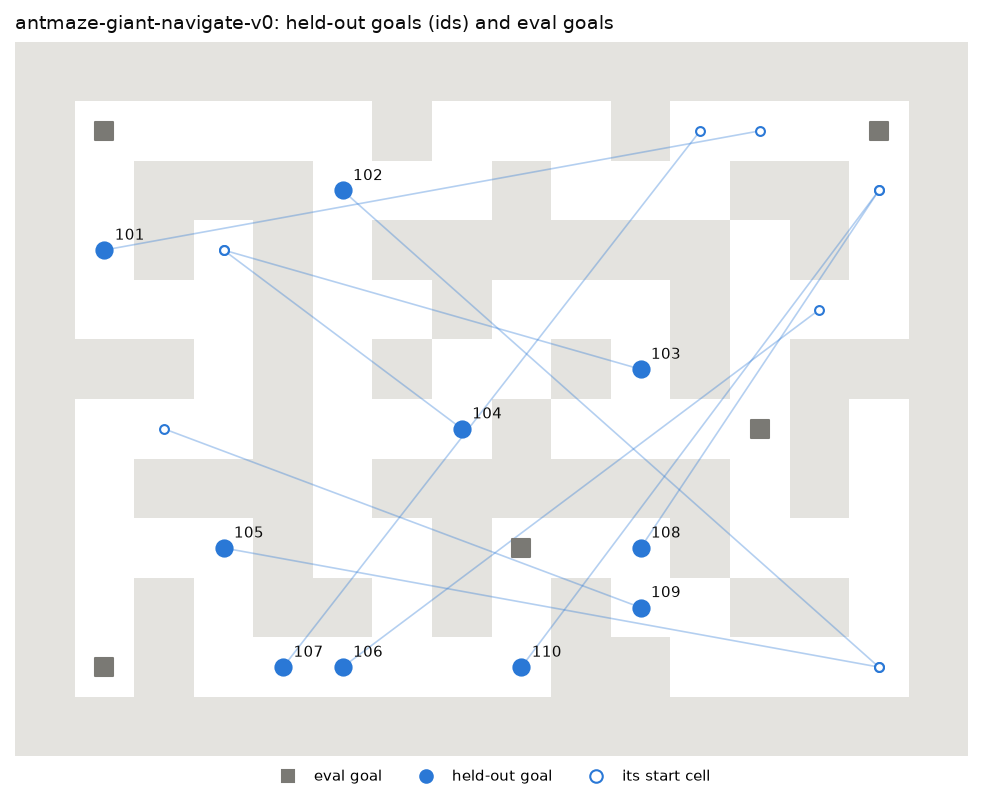
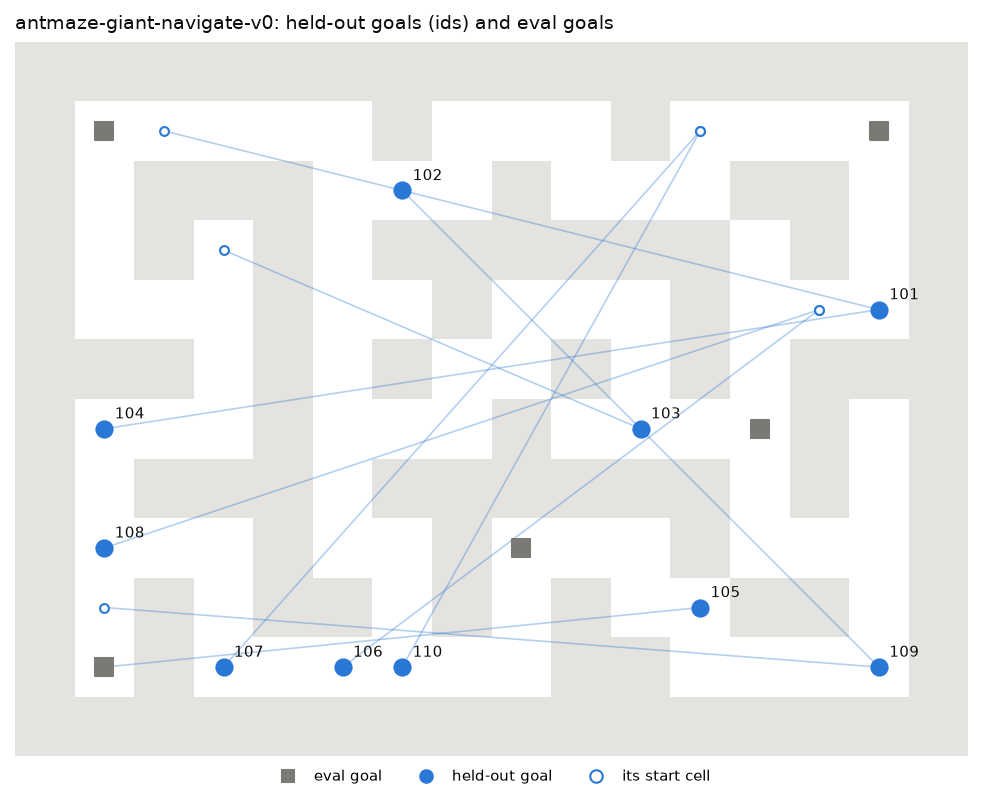
Require 50 dataset states within the radius of each held-out goal; regenerate the goal files

diff --git a/fbplan/evaluate.py b/fbplan/evaluate.py
@@ -127,17 +127,30 @@ class HeldoutGoal:
 
 
 def select_heldout_goals(
-    env: gym.Env, count: int = 10, min_cells: int = 2, seed: int = 0
+    env: gym.Env,
+    dataset_xy: np.ndarray,
+    count: int = 10,
+    min_cells: int = 2,
+    min_states: int = 50,
+    seed: int = 0,
 ) -> list[HeldoutGoal]:
     """Goals far from the 5 eval goals, with start cells as far from them as the eval tasks'.
 
     A start cell of a goal is a free cell whose distance to the goal (maze moves between
     4-connected cells) lies in the range of the eval tasks' start-to-goal distances. Goal cells:
-    `count` free cells, drawn without replacement (seeded) from those at least `min_cells` moves
-    from every eval goal that have a start cell. Start cell of each goal: a seeded draw. The goal
-    is the cell centre, as in OGBench's own tasks, and success uses OGBench's goal radius.
+    `count` free cells, drawn without replacement (seeded) from those that are at least
+    `min_cells` moves from every eval goal, have a start cell, and have at least `min_states`
+    of `dataset_xy` within the goal radius. dataset_xy: xy of the states that make z (the
+    validation split, see goal_latent); few states give a noisy z. Start cell of each goal: a
+    seeded draw. The goal is the cell centre, as in OGBench's own tasks, and success uses
+    OGBench's goal radius.
     """
     maze, infos = MazeGeometry.from_env(env), env.unwrapped.task_infos
+    radius = env.unwrapped._goal_tol
+
+    def states_near(cell: Cell) -> int:
+        centre = np.asarray(env.unwrapped.ij_to_xy(cell))
+        return int((np.linalg.norm(dataset_xy - centre, axis=1) <= radius).sum())
     to_eval_goals = [maze.bfs_steps(tuple(info["goal_ij"])) for info in infos]
     lengths = [
         steps[tuple(info["init_ij"])] for steps, info in zip(to_eval_goals, infos, strict=True)
@@ -149,7 +162,11 @@ def select_heldout_goals(
         return [c for c in free if min(lengths) <= steps[c] <= max(lengths)]
 
     candidates = [
-        c for c in free if min(steps[c] for steps in to_eval_goals) >= min_cells and starts(c)
+        c
+        for c in free
+        if min(steps[c] for steps in to_eval_goals) >= min_cells
+        and starts(c)
+        and states_near(c) >= min_states
     ]
     if not candidates:
         raise ValueError("no free cell is far enough from the eval goals")

diff --git a/tests/test_evaluate.py b/tests/test_evaluate.py
@@ -296,26 +296,36 @@ def test_parse_options_rejects_items_without_equals_sign():
 MEDIUM = "antmaze-medium-navigate-v0"
 
 
-def test_heldout_goals_are_far_from_eval_goals_and_start_at_eval_task_distances():
-    env = frozen.make_env(MEDIUM)
+def _val_xy(env_name: str) -> np.ndarray:
+    if not frozen.dataset_path(env_name, "val").exists():
+        pytest.skip(f"{env_name} val split absent")
+    return frozen.load_dataset(env_name, "val")["qpos"][:, :2]
+
+
+@pytest.mark.parametrize("env_name", [MEDIUM, "antmaze-large-navigate-v0"])
+def test_heldout_goals_are_far_from_eval_goals_and_start_at_eval_task_distances(env_name):
+    env, val_xy = frozen.make_env(env_name), _val_xy(env_name)
     maze, infos = MazeGeometry.from_env(env), env.unwrapped.task_infos
     to_eval_goal = [maze.bfs_steps(tuple(t["goal_ij"])) for t in infos]
     lengths = [steps[tuple(t["init_ij"])] for steps, t in zip(to_eval_goal, infos, strict=True)]
-    goals = select_heldout_goals(env)
+    goals = select_heldout_goals(env, val_xy)
     assert [g.task_id for g in goals] == [HELDOUT_OFFSET + k for k in range(1, 11)]
     assert len({g.goal_ij for g in goals}) == len(goals)
     for g in goals:
         assert min(steps[g.goal_ij] for steps in to_eval_goal) >= 2
         assert min(lengths) <= maze.bfs_steps(g.goal_ij)[g.init_ij] <= max(lengths)
         np.testing.assert_array_equal(g.goal_xy, env.unwrapped.ij_to_xy(g.goal_ij))
-    assert select_heldout_goals(frozen.make_env(MEDIUM)) == goals
+        inside = np.linalg.norm(val_xy - g.goal_xy, axis=1) <= env.unwrapped._goal_tol
+        assert inside.sum() >= 50
+    assert select_heldout_goals(frozen.make_env(env_name), val_xy) == goals
 
 
 @pytest.mark.parametrize(
     "env_name", [MEDIUM, "antmaze-large-navigate-v0", "antmaze-giant-navigate-v0"]
 )
 def test_saved_heldout_goals_equal_the_selection(env_name):
-    assert load_heldout_goals(env_name) == select_heldout_goals(frozen.make_env(env_name))
+    selected = select_heldout_goals(frozen.make_env(env_name), _val_xy(env_name))
+    assert load_heldout_goals(env_name) == selected
 
 
 def test_real_env_runs_heldout_goals_from_their_start_cells():

diff --git a/analysis/heldout_goals.py b/analysis/heldout_goals.py
@@ -3,8 +3,9 @@
     uv run python analysis/heldout_goals.py [--envs antmaze-medium-navigate-v0 ...]
 
 For each env: results/heldout_goals/<env>.csv (fbplan.evaluate.select_heldout_goals with its
-defaults, so the file is reproducible) and results/figures/heldout_goals_<env>.png. It prints
-the number of validation states within the goal radius of each goal (the states that make z).
+defaults and the validation split, so the file is reproducible) and
+results/figures/heldout_goals_<env>.png. It prints the number of validation states within the
+goal radius of each goal (the states that make z).
 """
 
 from __future__ import annotations
@@ -74,13 +75,13 @@ def main() -> None:
     args = parser.parse_args()
     for env_name in args.envs:
         env = make_env(env_name)
-        goals = select_heldout_goals(env)
+        xy = load_dataset(env_name, "val")["qpos"][:, :2]
+        goals = select_heldout_goals(env, xy)
         write_heldout_goals(goals, heldout_goals_path(env_name))
         maze = MazeGeometry.from_env(env)
         eval_goals = np.array([info["goal_xy"] for info in env.unwrapped.task_infos])
         plot_goals(maze, eval_goals, goals, f"{env_name}: held-out goals (ids) and eval goals",
                    args.fig_dir / f"heldout_goals_{env_name}.png")
-        xy = load_dataset(env_name, "val")["qpos"][:, :2]
         radius = env.unwrapped._goal_tol
         print(f"{env_name}: {len(goals)} goals -> {heldout_goals_path(env_name)}")
         for goal in goals:
